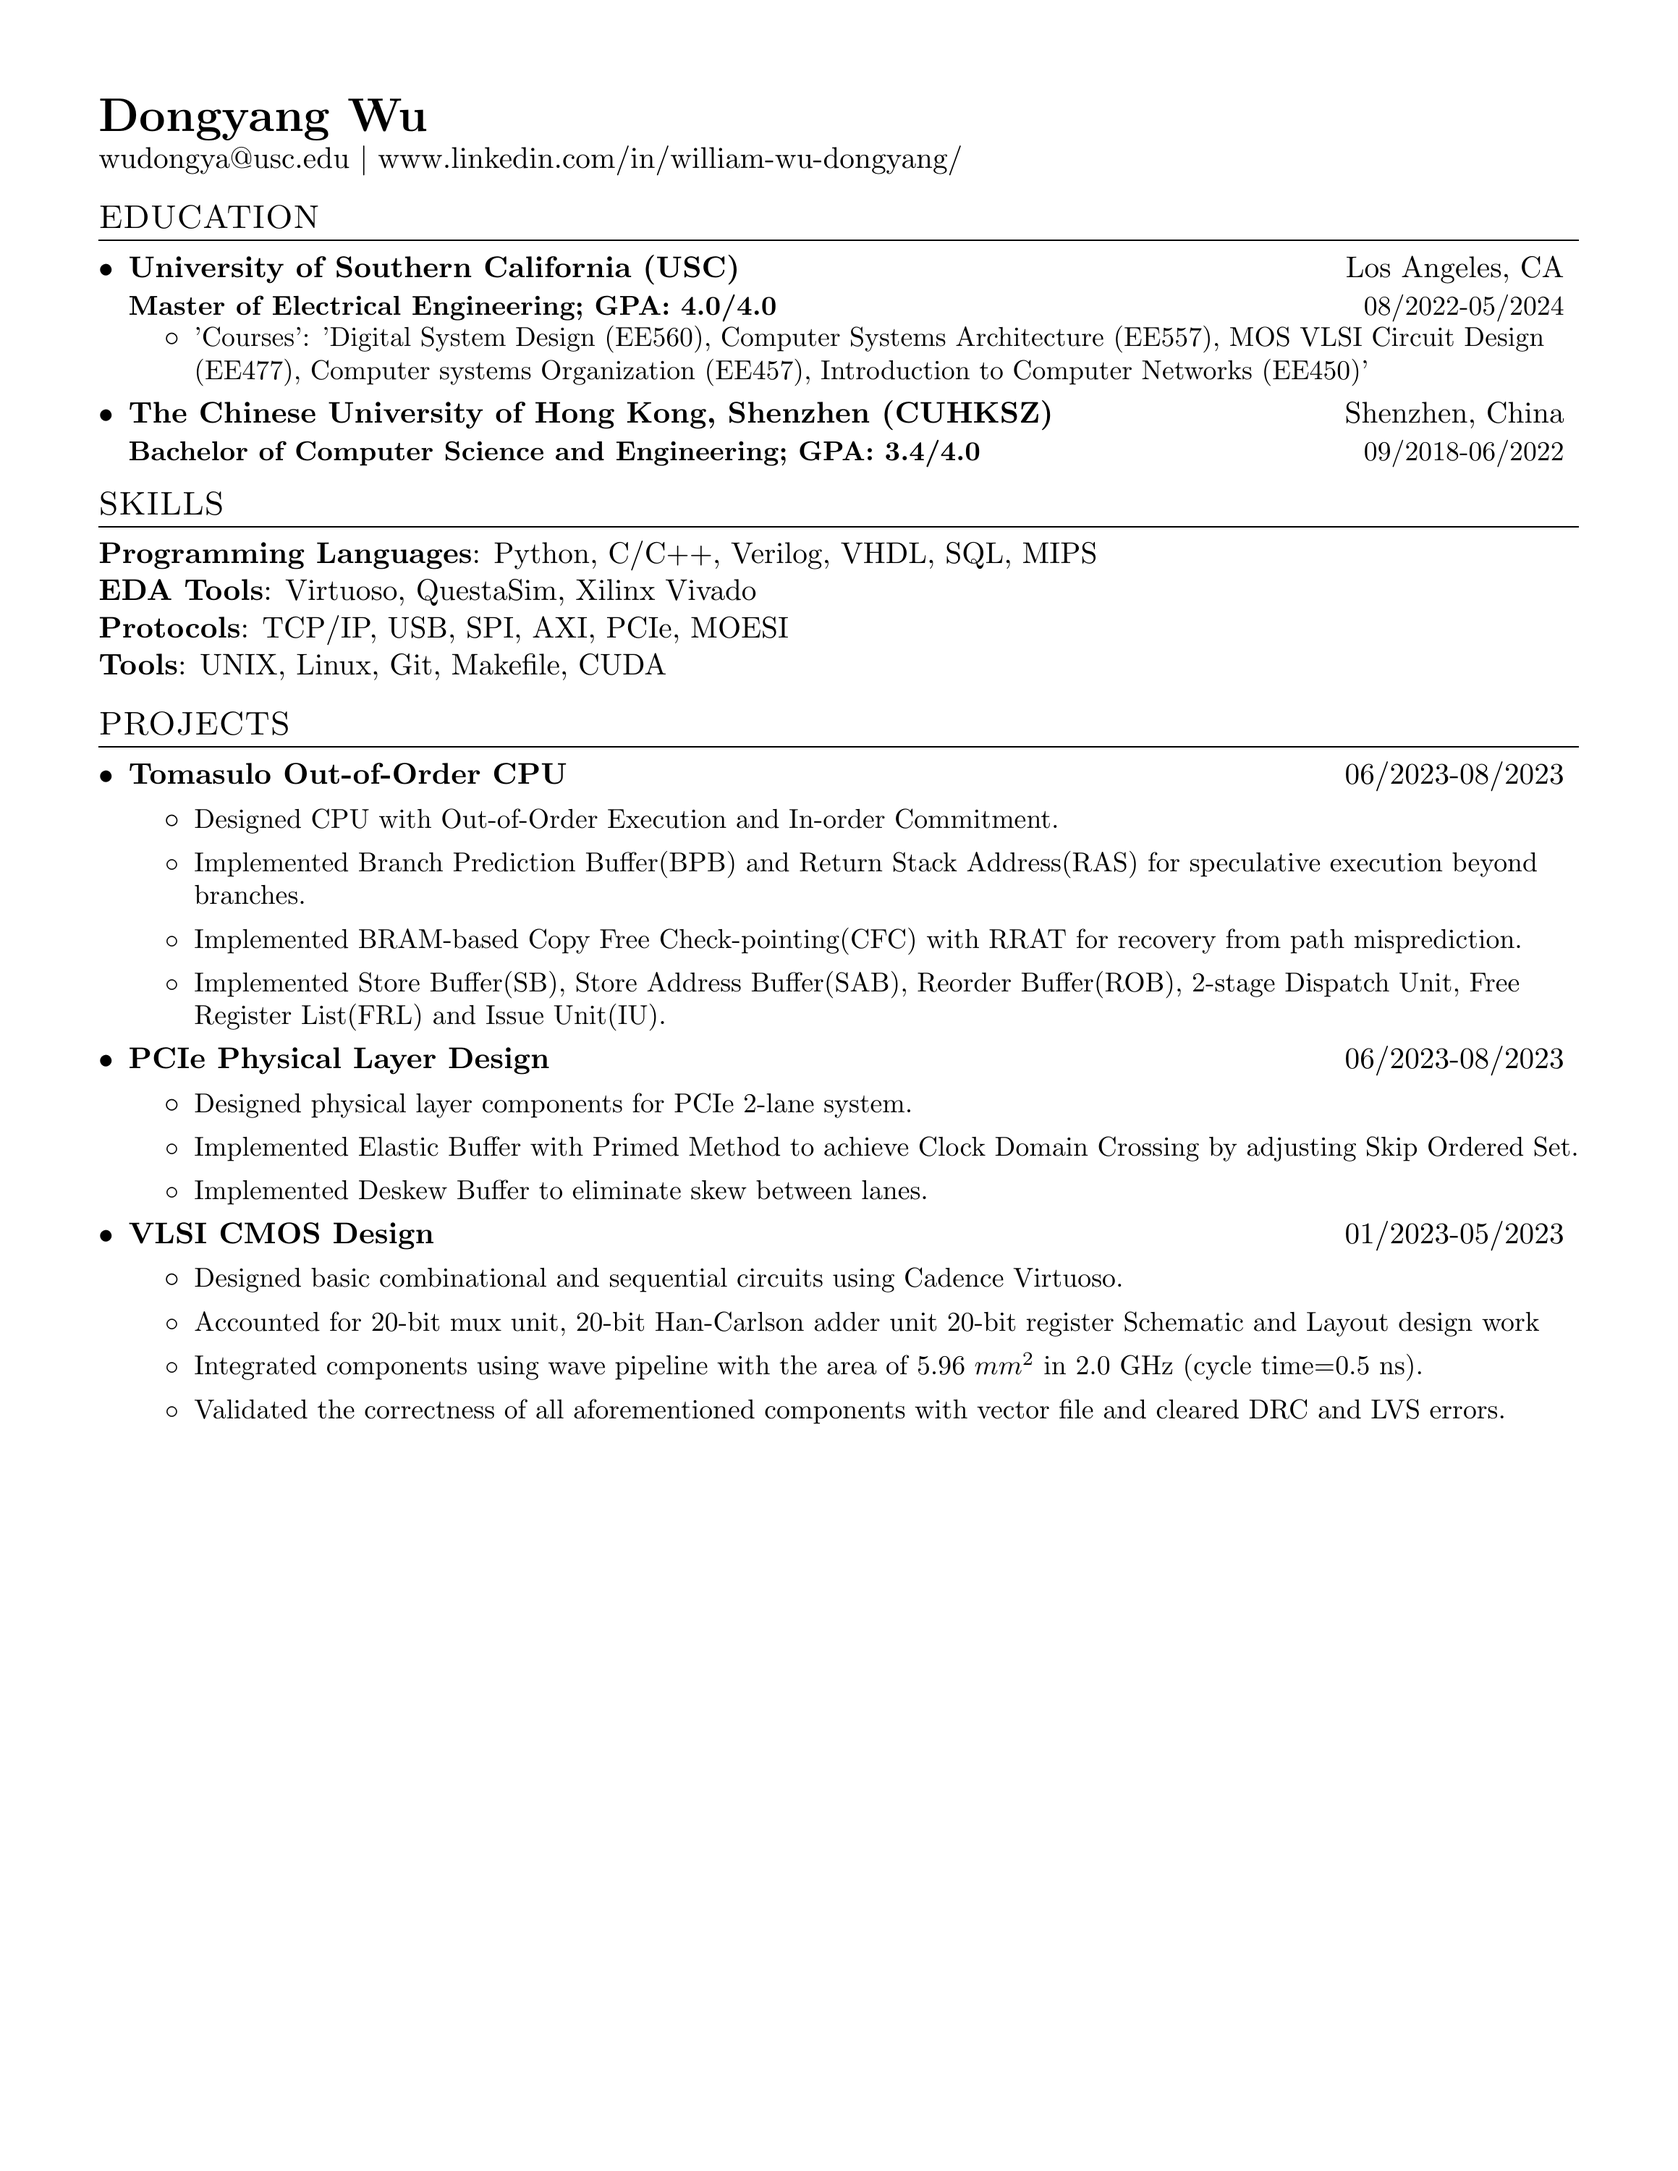
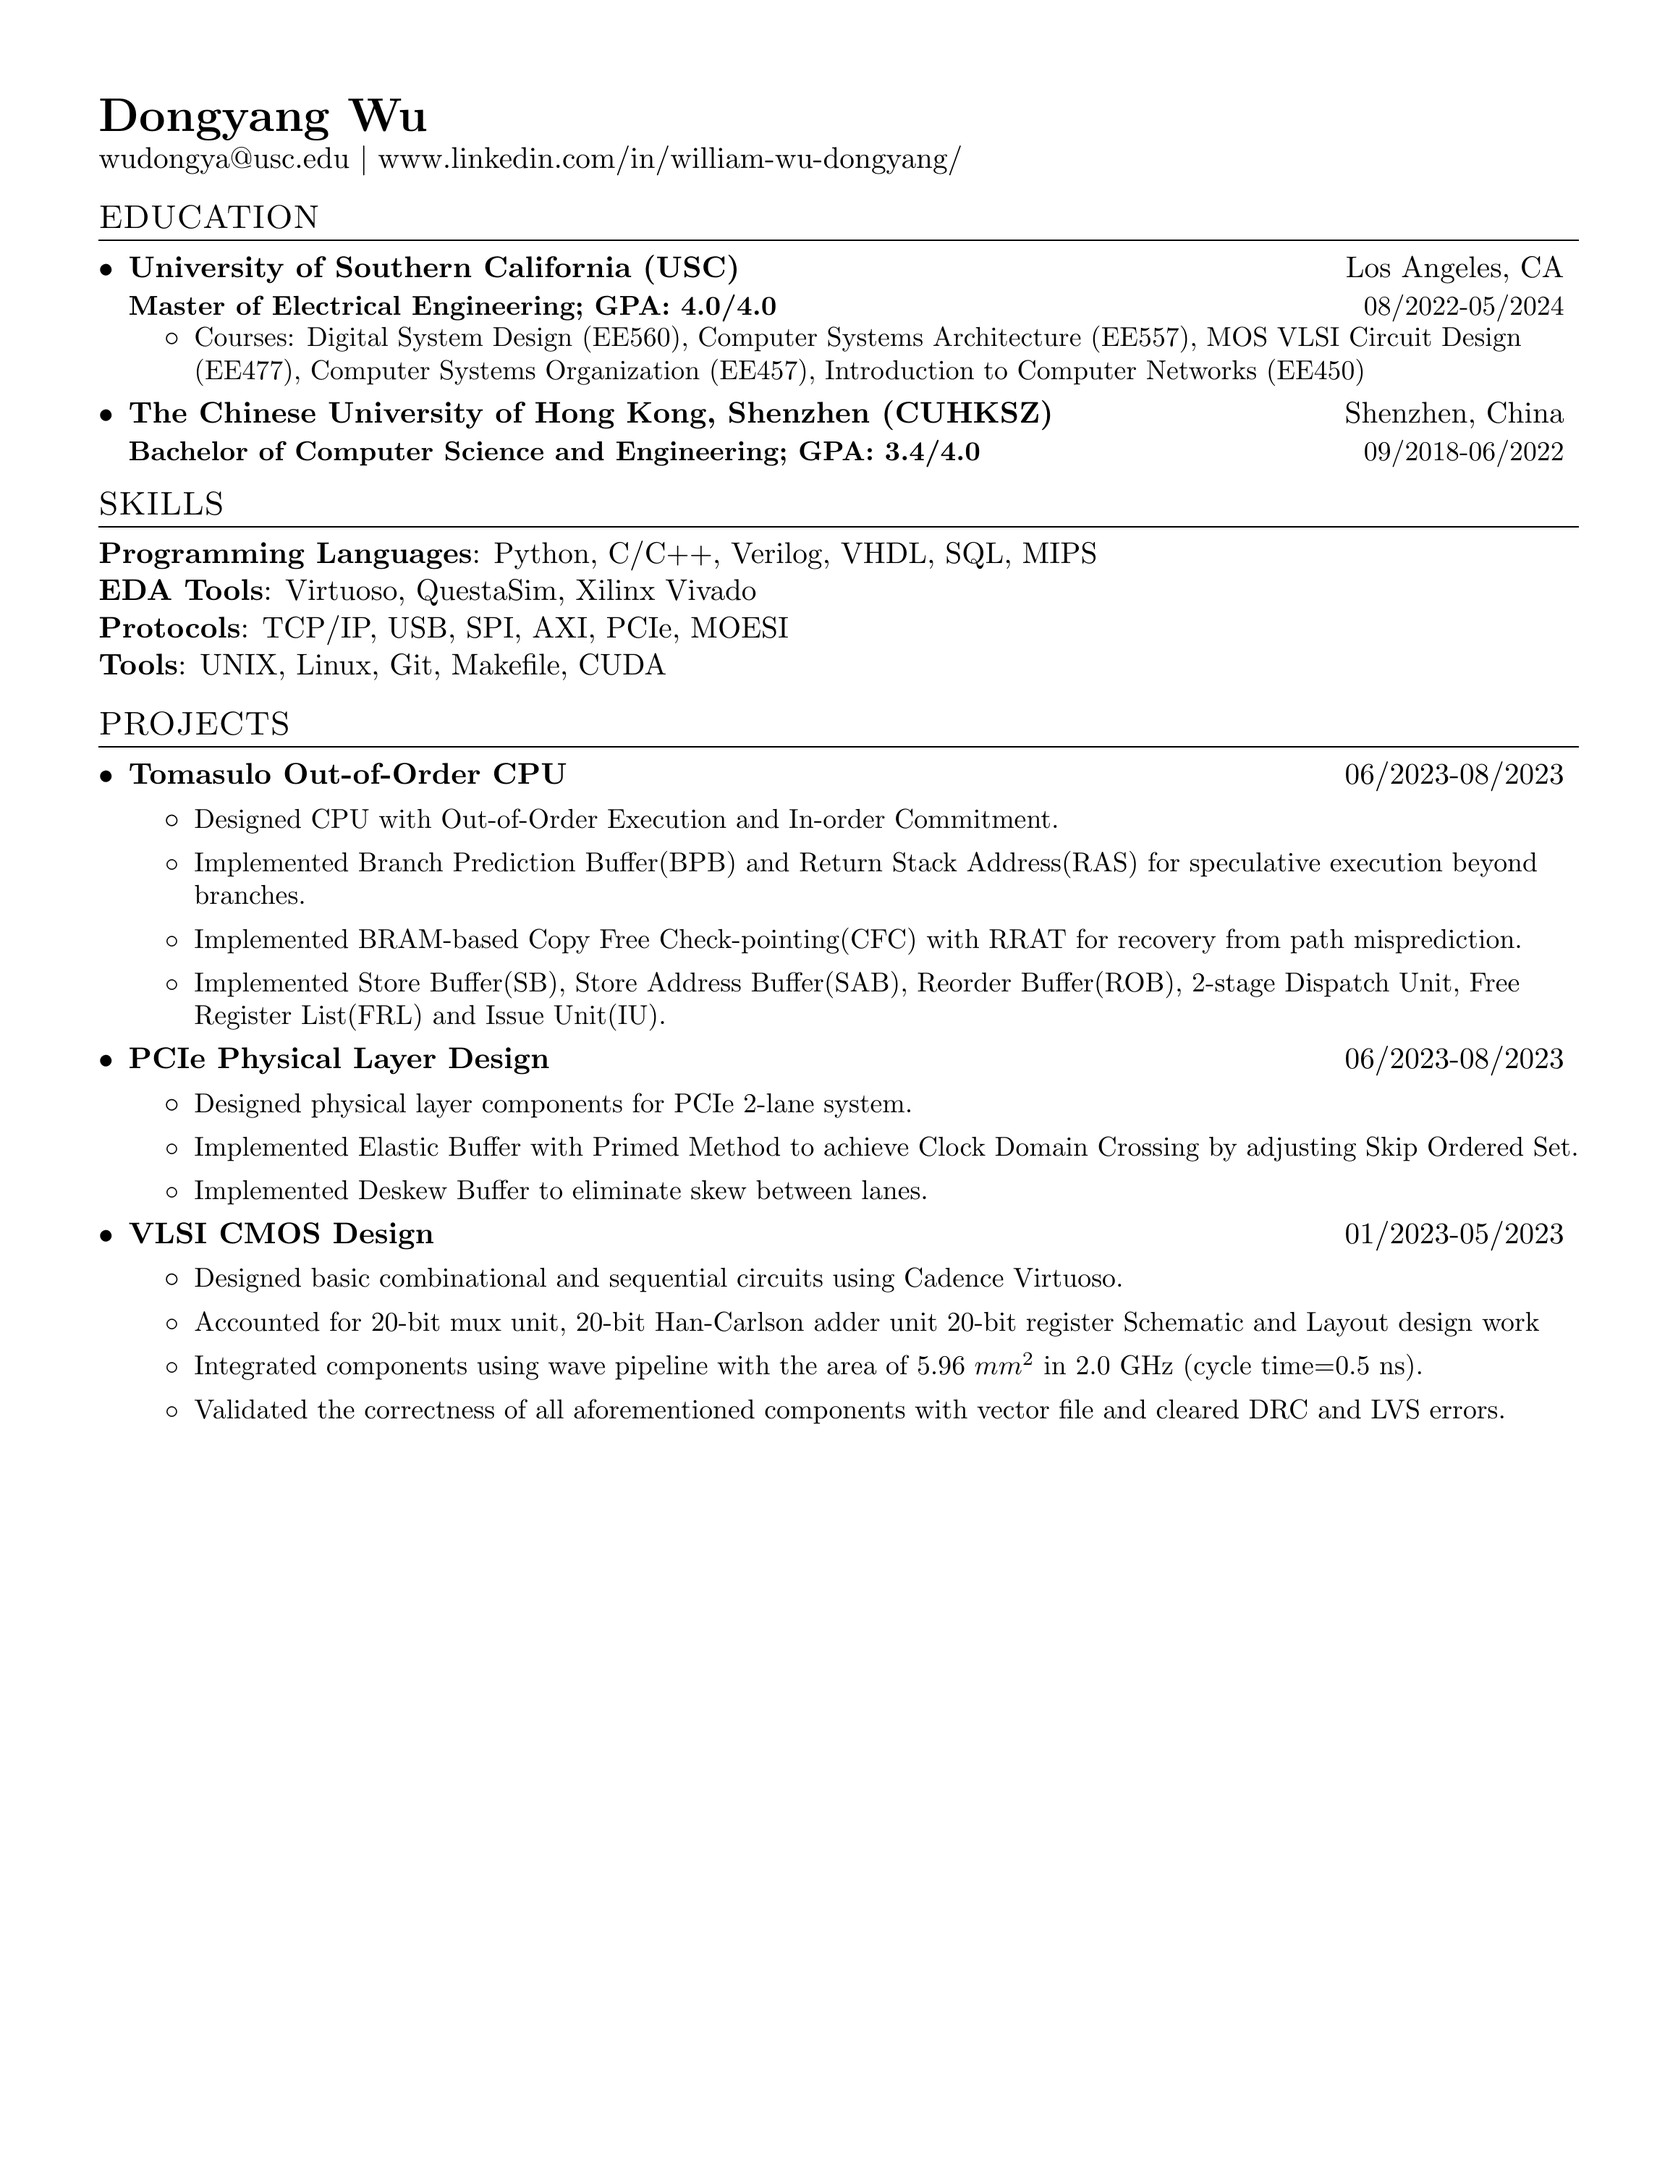
Built latest pdf for the repository

Changed region(s): [[0.2484, 0.155, 0.8072, 0.186]]

diff --git a/template.tex b/template.tex
@@ -116,7 +116,7 @@
     {Master of Electrical Engineering; GPA: 4.0/4.0
 }{08/2022-05/2024}
 \resumeItemListStart
-	\resumeItemOne{{'Courses': 'Digital System Design (EE560), Computer Systems Architecture (EE557), MOS VLSI Circuit Design (EE477), Computer systems Organization (EE457), Introduction to Computer Networks (EE450)'}}
+	\resumeItemOne{Courses: Digital System Design (EE560), Computer Systems Architecture (EE557), MOS VLSI Circuit Design (EE477), Computer Systems Organization (EE457), Introduction to Computer Networks (EE450)}
 \resumeItemListEnd
 \resumeSubheading
     {The Chinese University of Hong Kong, Shenzhen (CUHKSZ)}{Shenzhen, China}
